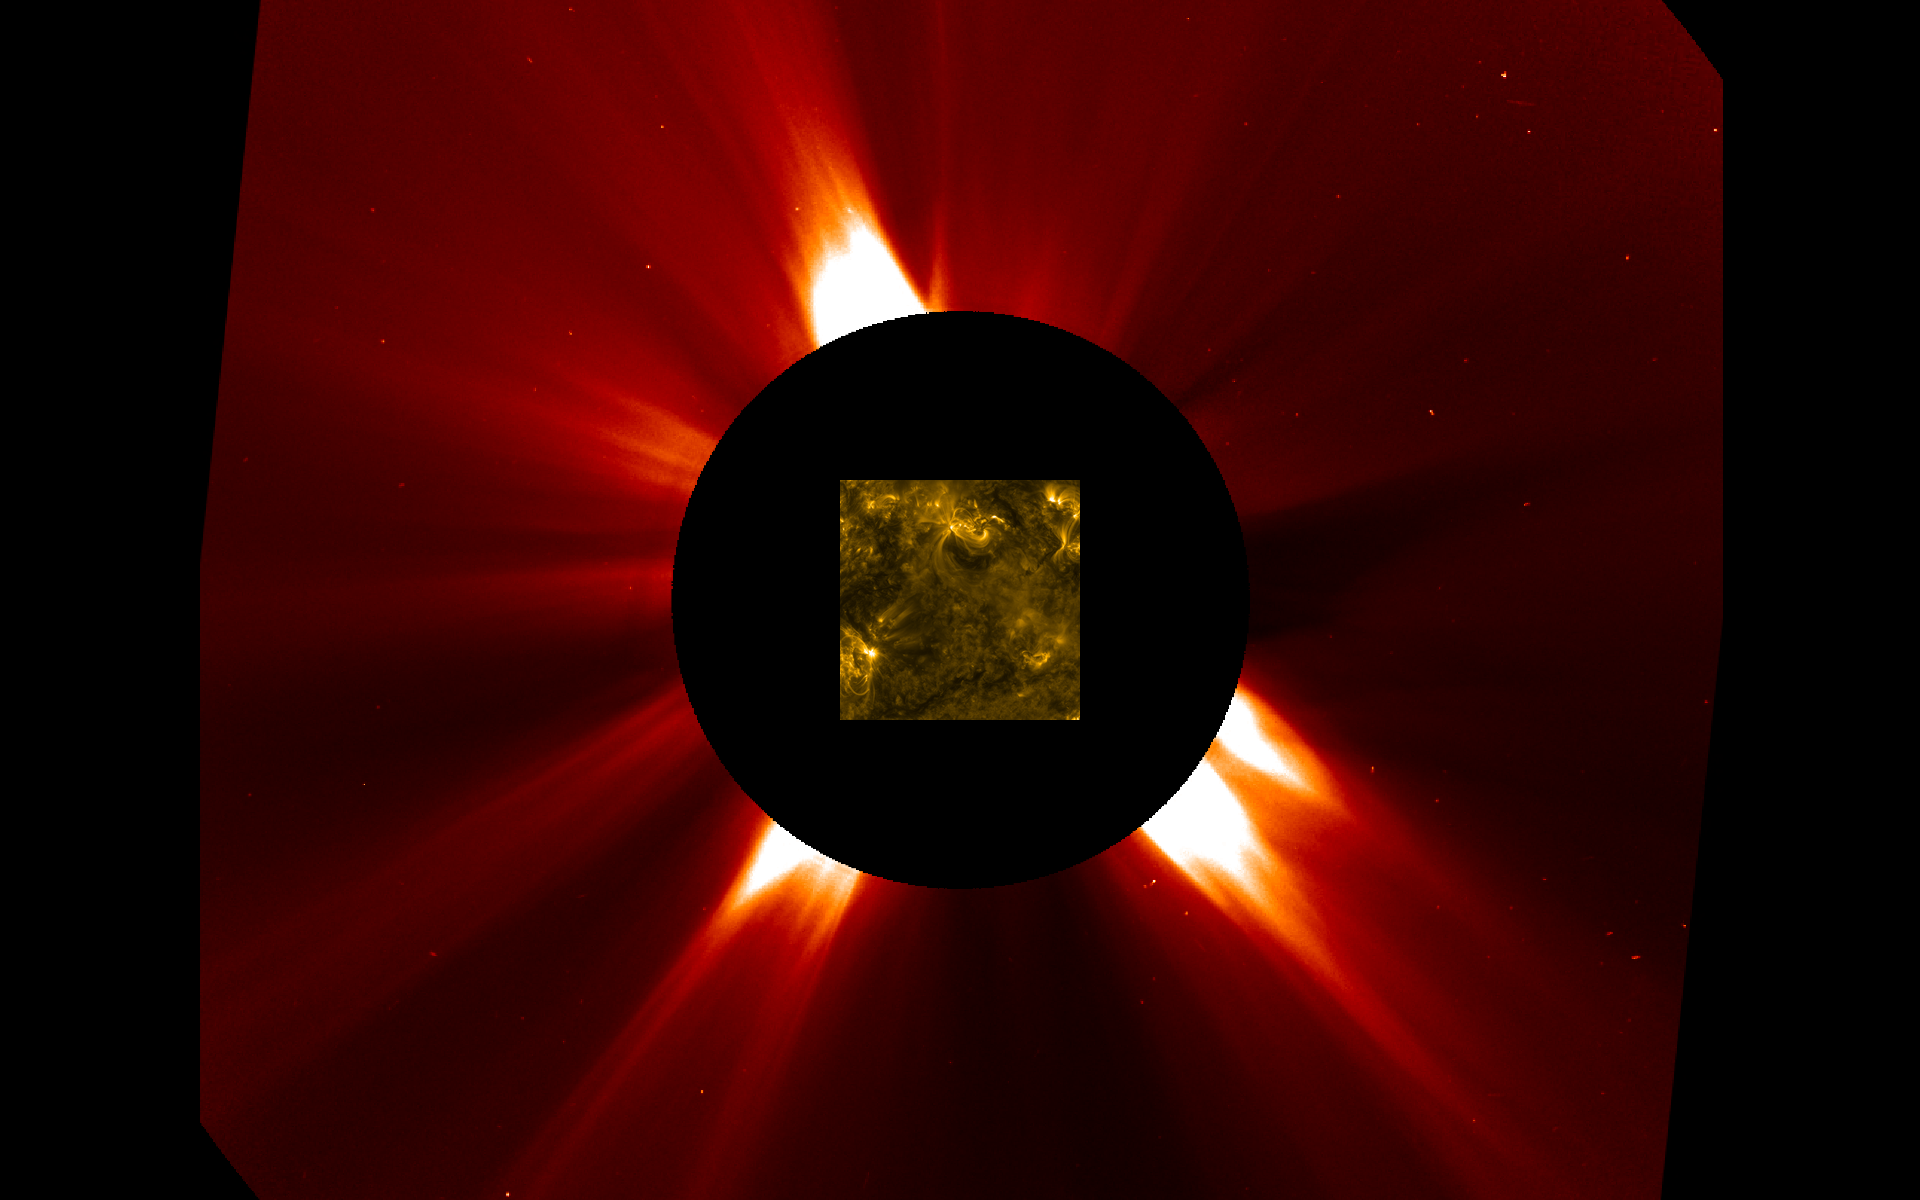
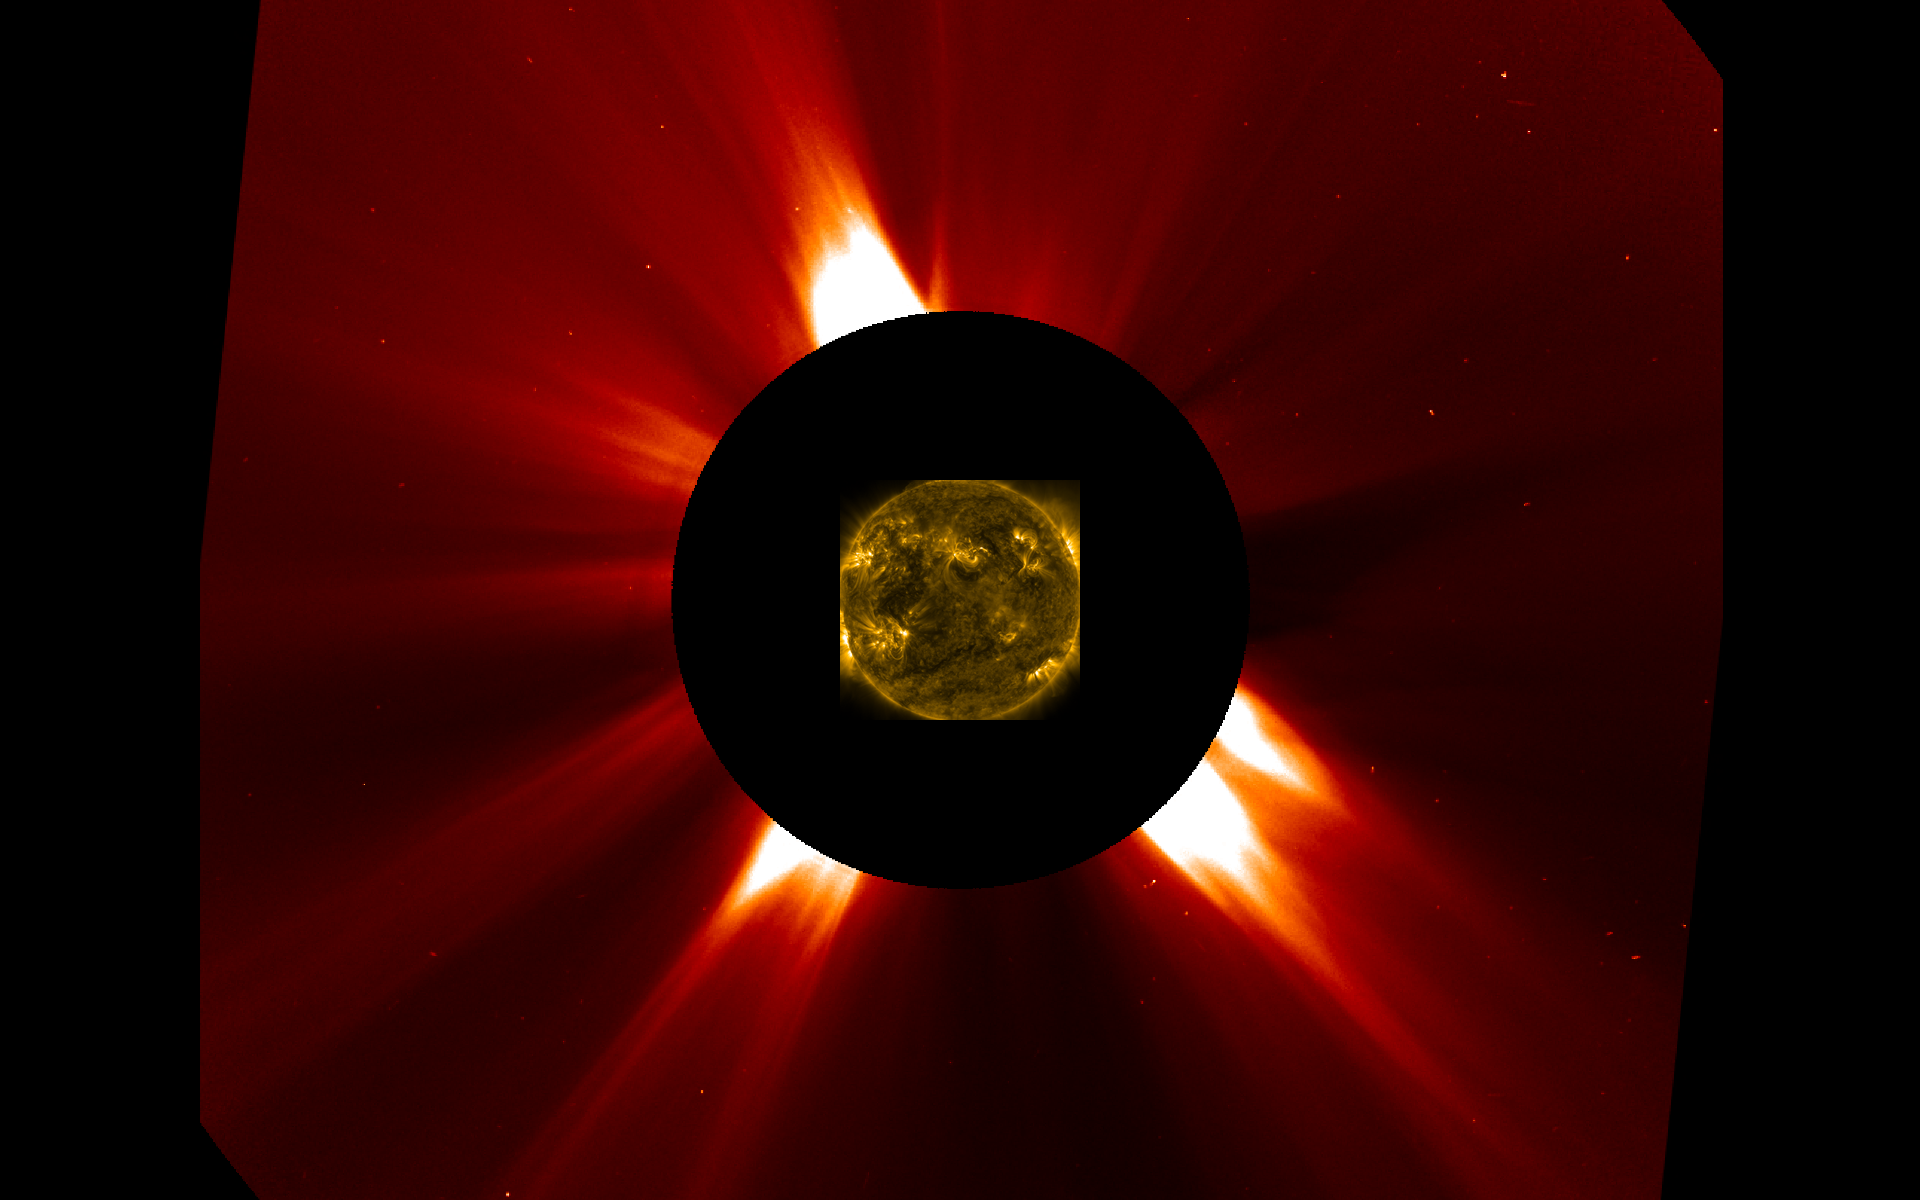
Fix: Fetch square solar disk image to prevent distortion
The composite image was showing a square solar disk inside a circular hole. This was caused by fetching a rectangular image of the sun and resizing it to a square, which distorted the aspect ratio.

This fix changes the API call to fetch a square image of the solar disk, ensuring that the aspect ratio is preserved when resizing. This should result in a circular, undistorted solar disk in the final composite image.

Changed region(s): [[0.4375, 0.4008, 0.5625, 0.6167]]

diff --git a/src/index.ts b/src/index.ts
@@ -62,7 +62,7 @@ async function fetchCompositeImage(isoDate: string, apiKey: string): Promise<Buf
 	const coronaImagePromise = fetchHelioviewerImage(isoDate, apiKey, 4, coronaImageScale, width, height);
 
 	const sunDiskImageScale = 1920 / width;
-	const sunDiskImagePromise = fetchHelioviewerImage(isoDate, apiKey, 10, sunDiskImageScale, width, height);
+	const sunDiskImagePromise = fetchHelioviewerImage(isoDate, apiKey, 10, sunDiskImageScale, width, width);
 
 	const [coronaImage, sunDiskImage] = await Promise.all([coronaImagePromise, sunDiskImagePromise]);
 
